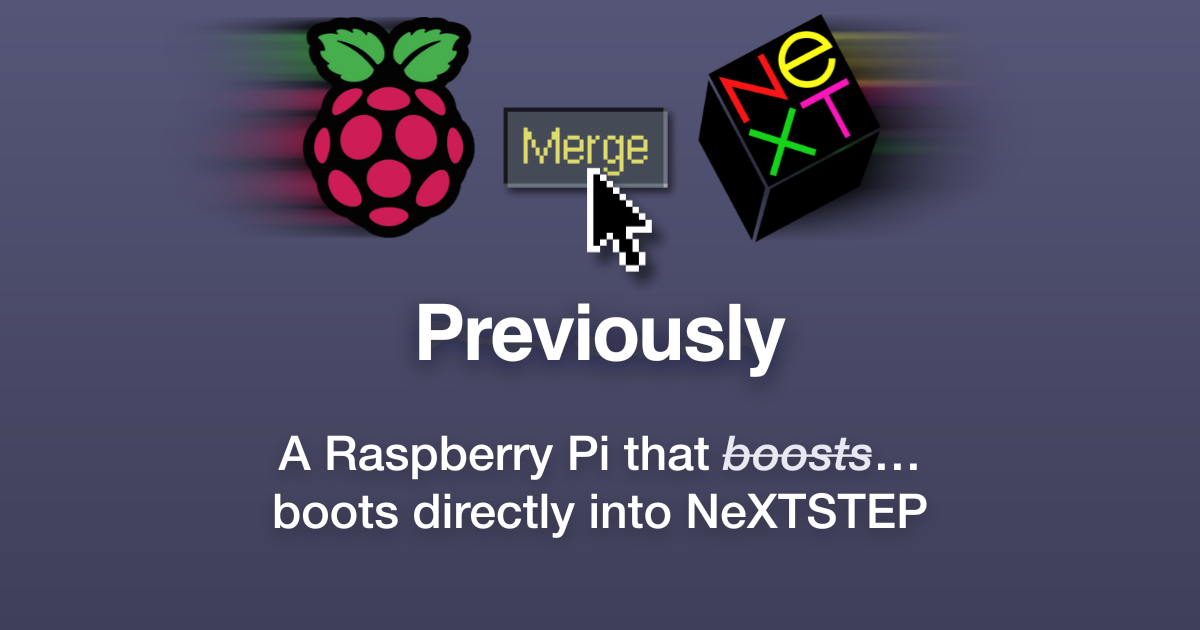
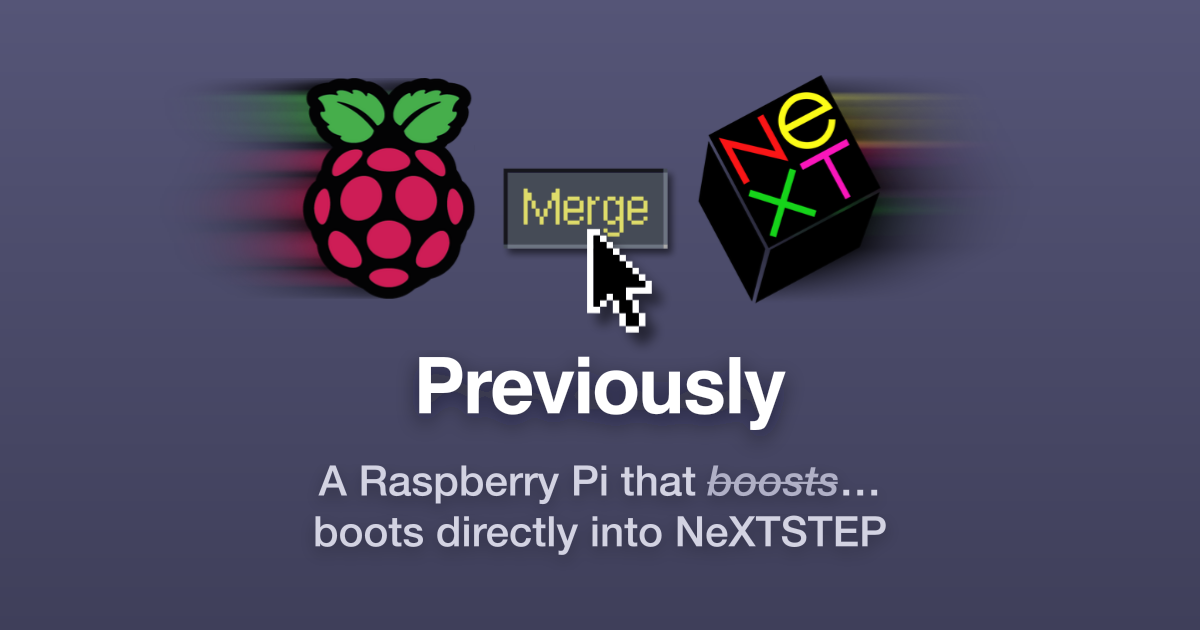
Feat: The link preview reads as one block (#6)
The claim stands at 42 and a step down in colour, the name is the only
thing in full white, and the three blocks are tighter than they were. The
group is centred in the picture.

site/og-image.py draws it now. Everything vertical is worked out there
from the type sizes and two gaps, block by block, and stacked by ink
rather than by boxes, so changing a size moves everything below it
instead of leaving four hand-tuned baselines to be brought back into
agreement.

site/hero.py records where its drawing ends in hero.svg, because the
cursor's shadow leaves a band at the bottom that belongs to the picture
and not to the drawing. og-image.py reads it from there rather than
carrying a measurement of a picture it does not draw.

Changed region(s): [[0.185, 0.0302, 0.8017, 0.8746]]

diff --git a/site/og.html b/site/og.html
@@ -4,11 +4,13 @@
 <meta charset="utf-8">
 <title>Previously, as a link preview</title>
 <style>
-  /* The picture and nothing else, at exactly the size a social network crops
-     to, so a screenshot of this viewport is site/shots/og.png.
+  /* The link preview and nothing else, at exactly the size a social network
+     crops to, for looking at in a browser.
 
-     What it shows is og-image.svg beside it, which is the source. Edit that.
-     This page only holds it at the right size and puts it on screen. */
+     What it shows is og-image.svg beside it, which site/og-image.py draws.
+     Change that and run it again. The picture that actually goes out is
+     shots/og.png, and it is rendered from the SVG rather than taken from
+     here. og-image.py says how. */
   html, body {
     margin: 0;
     width: 1200px;

diff --git a/site/og-image.py b/site/og-image.py
@@ -1,0 +1,163 @@
+#!/usr/bin/env python3
+"""Draws the link preview: the hero, the name, and what the name is.
+
+    python3 site/og-image.py
+
+It writes site/og-image.svg. Render that to the picture a social network or a
+chat window actually shows:
+
+    cd site && rsvg-convert -w 1200 og-image.svg -o shots/og.png && \\
+        oxipng -o 4 --strip safe shots/og.png
+
+og.html beside it holds the same thing at that size in a browser, for looking
+at rather than for rendering.
+
+The picture at the top is hero.svg, which site/hero.py draws and index.html
+shows as the page's own opening. It is placed rather than copied, so a link to
+the page unfolds into what the page opens on and the two cannot come apart.
+
+Everything vertical is worked out here rather than written down. The three
+blocks are stacked by the gaps between what is actually drawn, which is ink
+against ink rather than box against box, and the stack is then centred in the
+picture. Changing a type size or a gap moves everything below it.
+"""
+
+import pathlib
+from xml.etree import ElementTree
+
+HERE = pathlib.Path(__file__).parent
+
+WIDTH, HEIGHT = 1200, 630
+
+#: The workspace colour NeXTSTEP drew behind its windows, sinking towards the
+#: bottom edge.
+GROUND = ("#555577", "#3f3f5a")
+
+#: Where Helvetica puts its ink, as shares of the type size. A capital reaches
+#: this far above the baseline and a descender this far below it, so a line of
+#: type can be stacked by what it draws rather than by the box it sits in.
+CAP = 0.717
+DESCENDER = 0.207
+
+#: The hero, and how wide it stands here. Its shape is read out of the file
+#: rather than stated, by hero_shape below.
+HERO = {"file": "hero.svg", "width": 940}
+
+#: The name, in the face NeXTSTEP set its whole interface in. It is the one
+#: thing here in full white, so it is what the eye lands on.
+NAME = {"text": "Previously", "size": 78, "tracking": -2.3, "ink": "#ffffff",
+        "family": "Helvetica, Arial, sans-serif", "weight": "bold"}
+
+#: And what the name is, with the word it nearly said struck through. It sits
+#: a step under the name and the struck word a step under that, so the three
+#: are read in the order they are meant in.
+#:
+#: Helvetica Neue rather than Helvetica for these two lines, because Helvetica
+#: holds only Regular and Bold: asking it for a weight between the two lands on
+#: Bold. Neue carries Medium, which is the semibold this wants.
+CLAIM = {
+    "lines": ["A Raspberry Pi that {struck}… ", "boots directly into NeXTSTEP"],
+    "struck": "boosts",
+    "size": 42,
+    "leading": 1.21,
+    "ink": "#d3d3e2",
+    "struck_ink": "#b0b0c6",
+    "family": "Helvetica Neue, Helvetica, Arial, sans-serif",
+    "weight": "500",
+}
+
+#: What stands between one block of ink and the next.
+GAP_HERO_NAME = 18
+GAP_NAME_CLAIM = 36
+
+
+def hero_shape():
+    """How tall the hero is for a given width, and how much of that is drawn.
+
+    Both are read off hero.svg, which records them, because the cursor's
+    shadow leaves a band at the bottom that belongs to the picture and not to
+    the drawing. Stacking against the picture's edge would leave a gap nobody
+    can see, and stating the numbers here would put a measurement of hero.py's
+    work in a file that does not do it.
+    """
+    root = ElementTree.parse(HERE / HERO["file"]).getroot()
+    height = float(root.get("height"))
+    return height / float(root.get("width")), float(root.get("data-ink-height")) / height
+
+
+def main():
+    ratio, drawn = hero_shape()
+    hero_height = HERO["width"] * ratio
+    hero_ink = hero_height * drawn
+
+    # Every offset below is measured from the top of the hero, which is the top
+    # of the group's ink. The group is placed afterwards, in one line.
+    name_base = hero_ink + GAP_HERO_NAME + NAME["size"] * CAP
+    claim_base = (name_base + NAME["size"] * DESCENDER
+                  + GAP_NAME_CLAIM + CLAIM["size"] * CAP)
+    claim_last = claim_base + CLAIM["size"] * CLAIM["leading"] * (len(CLAIM["lines"]) - 1)
+    group = claim_last + CLAIM["size"] * DESCENDER
+
+    top = (HEIGHT - group) / 2
+    struck = (f'<tspan font-style="italic" fill="{CLAIM["struck_ink"]}"'
+              f' text-decoration="line-through">{CLAIM["struck"]}</tspan>')
+    lines = "\n".join(
+        f'  <text x="{WIDTH / 2:g}" y="{top + claim_base + CLAIM["size"] * CLAIM["leading"] * number:g}"'
+        f' filter="url(#lift-soft)"\n'
+        f'        font-family="{CLAIM["family"]}" font-weight="{CLAIM["weight"]}"'
+        f' font-size="{CLAIM["size"]}"\n'
+        f'        fill="{CLAIM["ink"]}" text-anchor="middle">{line.format(struck=struck)}</text>'
+        for number, line in enumerate(CLAIM["lines"]))
+
+    document = f"""<?xml version="1.0" encoding="UTF-8"?>
+<!--
+  Written by site/og-image.py. Change that and run it again.
+-->
+<svg xmlns="http://www.w3.org/2000/svg" xmlns:xlink="http://www.w3.org/1999/xlink"
+     width="{WIDTH}" height="{HEIGHT}" viewBox="0 0 {WIDTH} {HEIGHT}">
+
+  <defs>
+    <linearGradient id="ground" x1="0" y1="0" x2="0" y2="1">
+      <stop offset="0" stop-color="{GROUND[0]}"/>
+      <stop offset="1" stop-color="{GROUND[1]}"/>
+    </linearGradient>
+
+    <!-- The name and the claim lift off the ground the same way: a tight
+         shadow that sets the letters off it and a wide one that gives them
+         somewhere to sit. The claim takes the softer of the two, because it
+         is the quieter line. The colour is a deeper version of the ground
+         rather than black, and the picture above them carries its own. -->
+    <filter id="lift" x="-20%" y="-20%" width="140%" height="160%">
+      <feDropShadow dx="0" dy="2" stdDeviation="2" flood-color="#10101c" flood-opacity="0.55"/>
+      <feDropShadow dx="0" dy="8" stdDeviation="11" flood-color="#10101c" flood-opacity="0.6"/>
+    </filter>
+
+    <filter id="lift-soft" x="-20%" y="-20%" width="140%" height="160%">
+      <feDropShadow dx="0" dy="2" stdDeviation="2" flood-color="#10101c" flood-opacity="0.28"/>
+      <feDropShadow dx="0" dy="6" stdDeviation="8" flood-color="#10101c" flood-opacity="0.3"/>
+    </filter>
+  </defs>
+
+  <rect width="{WIDTH}" height="{HEIGHT}" fill="url(#ground)"/>
+
+  <!-- One machine turning into another, which is the whole of what this
+       project does. The Pi is on the left because that is what somebody starts
+       with. -->
+  <image x="{(WIDTH - HERO['width']) / 2:g}" y="{top:g}"
+         width="{HERO['width']}" height="{hero_height:g}" xlink:href="{HERO['file']}"/>
+
+  <text x="{WIDTH / 2:g}" y="{top + name_base:g}" filter="url(#lift)"
+        font-family="{NAME['family']}" font-weight="{NAME['weight']}" font-size="{NAME['size']}"
+        letter-spacing="{NAME['tracking']}" fill="{NAME['ink']}" text-anchor="middle">{NAME['text']}</text>
+
+{lines}
+</svg>
+"""
+    destination = HERE / "og-image.svg"
+    destination.write_text(document)
+    print(f"{destination.name}: the group is {group:.0f} tall in {HEIGHT}, "
+          f"so it starts at {top:.0f} and ends at {top + group:.0f}.")
+
+
+if __name__ == "__main__":
+    main()

diff --git a/site/hero.py b/site/hero.py
@@ -288,13 +288,21 @@ def main():
     # The picture is exactly as large as what stands in it, counting each trail
     # to where it has faded out and each shadow to where it has. Everything
     # then moves so the topmost and leftmost of them begin at nothing.
+    #
+    # data-ink-height goes on the root with the size, because the cursor's
+    # shadow leaves a band at the bottom that is part of the picture and not
+    # part of the drawing. Anything placing this file has to know where the
+    # drawing ends, and og-image.py reads it from there rather than measuring
+    # a picture it does not draw.
     left = berry["x"] - berry_reach * berry_scale
     top = min(berry["y"], cube["y"])
     width = cube["x"] + cube_trail_w - left
-    height = max(berry["y"] + berry["height"],
-                 cube["y"] + cube["height"],
-                 button["y"] + button["h"] + reach_of(BUTTON_SHADOW),
-                 cursor["y"] + len(CURSOR) * CURSOR_UNIT + reach_of(CURSOR_SHADOW)) - top
+    drawn = [(berry["y"] + berry["height"], 0),
+             (cube["y"] + cube["height"], 0),
+             (button["y"] + button["h"], reach_of(BUTTON_SHADOW)),
+             (cursor["y"] + len(CURSOR) * CURSOR_UNIT, reach_of(CURSOR_SHADOW))]
+    height = max(bottom + shadow for bottom, shadow in drawn) - top
+    ink = max(bottom for bottom, _ in drawn) - top
     for thing in (berry, cube, button, cursor):
         thing["x"] -= left
         thing["y"] -= top
@@ -310,7 +318,8 @@ def main():
   Written by site/hero.py. Change that and run it again.
 -->
 <svg xmlns="http://www.w3.org/2000/svg" xmlns:xlink="http://www.w3.org/1999/xlink"
-     width="{width:g}" height="{height:g}" viewBox="0 0 {width:g} {height:g}">
+     width="{width:g}" height="{height:g}" viewBox="0 0 {width:g} {height:g}"
+     data-ink-height="{ink:g}">
 
   <defs>
     <!-- The shadow the button throws: offset, dark, barely spread, as the
